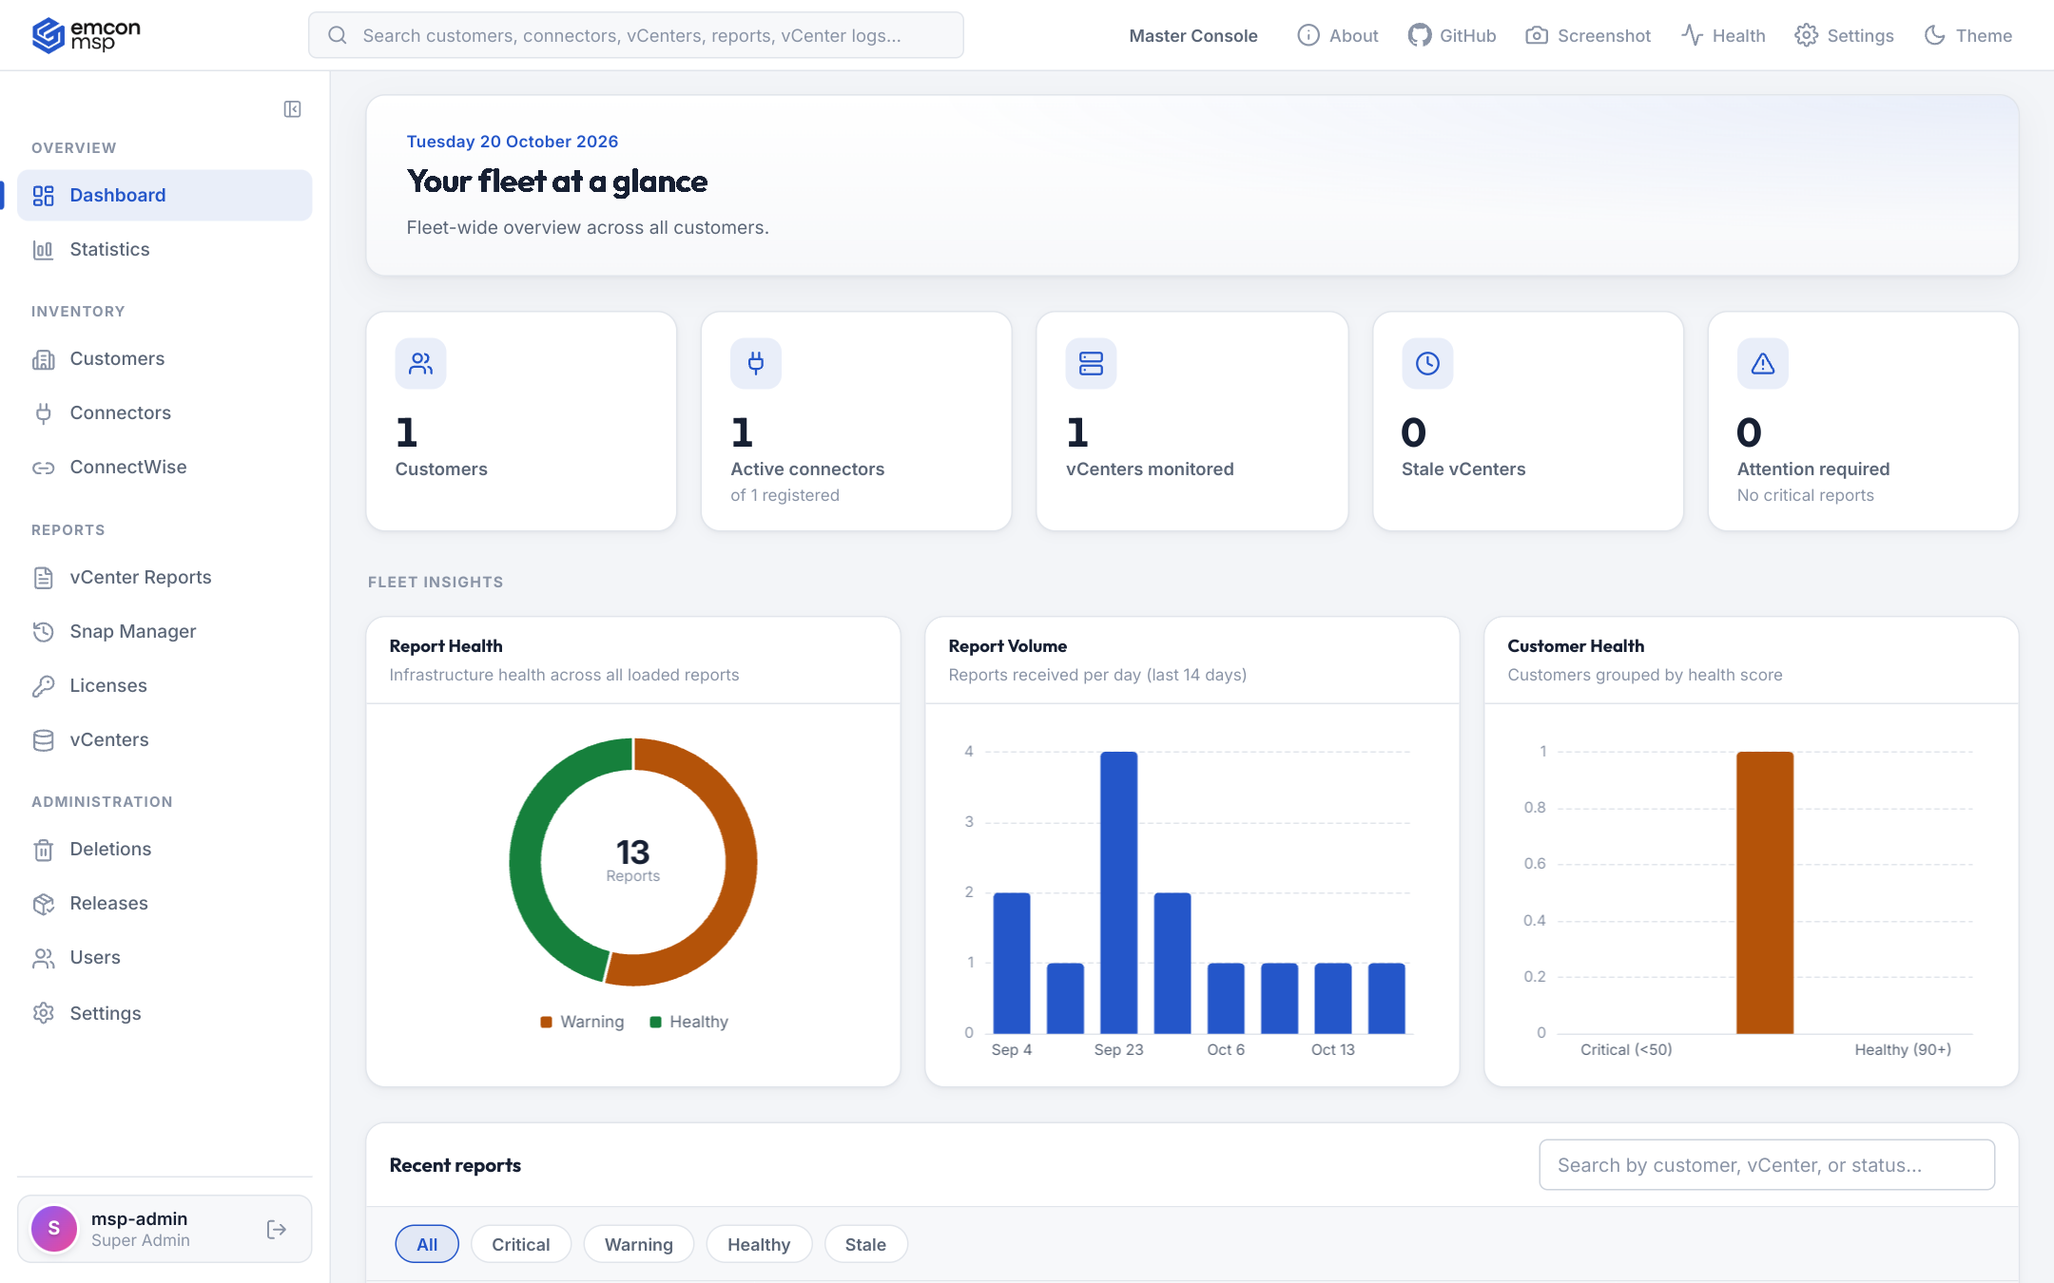
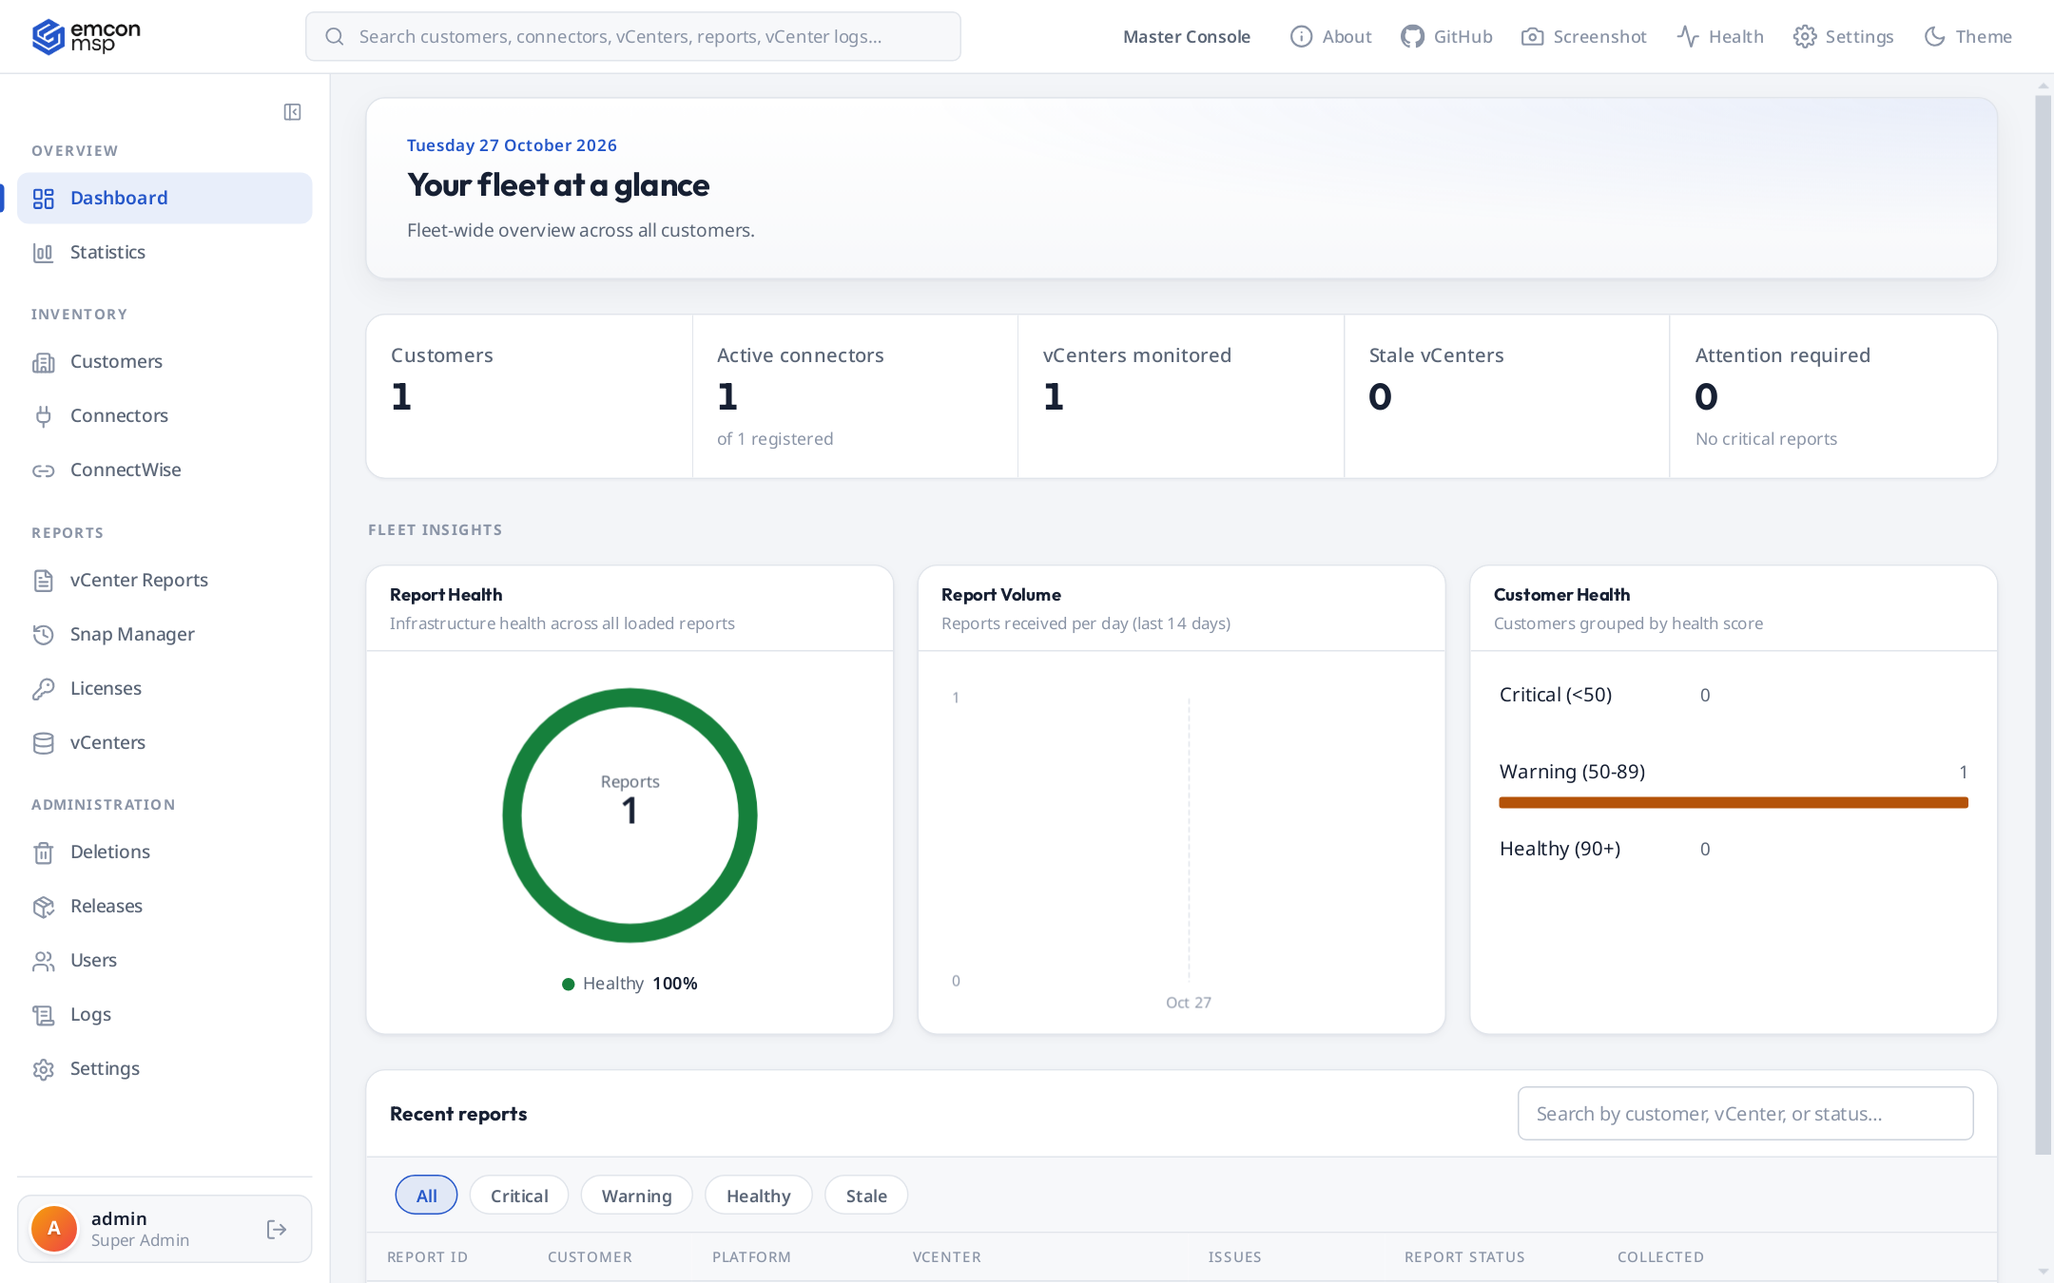
Refresh README for Master 1.0.12 with new screenshots

diff --git a/README.md b/README.md
@@ -1,265 +1,119 @@
+<div align="center">
+
 # EMCONMSP
 
-**VMware infrastructure monitoring and reporting for managed service providers.**
+**VMware infrastructure monitoring and reporting platform for managed service providers**
 
-EMCONMSP lets an MSP watch the health of every customer's VMware environment from one console. A small appliance (the **Connector**) runs next to each customer's vCenter and sends read-only inventory, health, log and snapshot data to your central **Master**. The Master turns it into dashboards, findings, PDF reports and email digests.
+[![Master](https://img.shields.io/badge/Master-1.0.12-1f3a5f?style=flat-square)](#release-notes)
+[![Connector](https://img.shields.io/badge/Connector-1.0.5-1f3a5f?style=flat-square)](#release-notes)
+[![vSphere](https://img.shields.io/badge/VMware%20vSphere-7.x%20%7C%208.x-607078?style=flat-square)](#requirements)
+[![Delivery](https://img.shields.io/badge/delivery-OVA%20appliance-2b6cb0?style=flat-square)](#deployment)
+[![Network](https://img.shields.io/badge/closed%20network-ready-2f855a?style=flat-square)](#security)
+[![License](https://img.shields.io/badge/license-proprietary-4a5568?style=flat-square)](#license)
 
-- Read-only toward vCenter. Nothing is ever changed in the customer's environment.
-- Outbound only. Connectors call the Master over HTTPS; no inbound firewall rules are needed at the customer.
-- vCenter credentials stay on the Connector, encrypted. They are never sent to the Master.
-- Both products ship as ready-to-deploy virtual appliances (OVA) and work in closed networks.
+[Overview](#overview) · [Capabilities](#capabilities) · [Architecture](#architecture) · [Deployment](#deployment) · [Security](#security) · [Release notes](#release-notes)
 
-> This repository only holds documentation. The product is delivered as OVA appliances.
+<img src="docs/images/master-dashboard.png" alt="EMCONMSP Master dashboard" width="900">
 
-![EMCONMSP Master dashboard](docs/images/master-dashboard.png)
-
----
-
-## Contents
-
-- [How it fits together](#how-it-fits-together)
-- [Getting started](#getting-started)
-- [Using the Master](#using-the-master)
-- [Using the Connector](#using-the-connector)
-- [Security at a glance](#security-at-a-glance)
+</div>
 
 ---
 
-## How it fits together
+## Overview
+
+EMCONMSP gives MSPs a single console for the health of every customer's VMware estate. A lightweight **Connector** appliance runs at each customer site and sends read-only inventory, health, log and snapshot data to the central **Master**, which turns it into findings, dashboards, branded PDF reports and email digests.
+
+> This repository contains product documentation. EMCONMSP is delivered as virtual appliances (OVA).
+
+## Capabilities
+
+| Area | What you get |
+| --- | --- |
+| **Assessment reports** | Scheduled vCenter reports with severity-ranked recommendations (C1, W1...), inventory, VM health and trends across reports. |
+| **Branded PDF** | Cover page, clickable table of contents and your own MSP logo and name, in the browser and in customer emails. |
+| **Fleet insight** | Dashboard and Statistics with report volume, freshness, version spread and hardware vendors across all customers. |
+| **Snap Manager** | Daily snapshot scan with creator tracking, exclusion rules by name, age and VM state, and team and customer digests. |
+| **Log Viewer** | vCenter tasks and events every 15 minutes, with quick filters for common events such as HA restarts. |
+| **Notifications** | SMTP relay with automatic retries, Microsoft Teams alerts, and a Zabbix-ready mail health endpoint. |
+| **Integrations** | Read-only Integration API, ConnectWise Manage agreement checks and Active Directory sign-in. |
+| **Administration** | Role-based access, enforced or optional MFA, user management, retention policies and appliance health. |
+
+<table>
+  <tr>
+    <td width="50%"><img src="docs/images/master-report-summary.png" alt="Report summary"></td>
+    <td width="50%"><img src="docs/images/master-statistics.png" alt="Fleet statistics"></td>
+  </tr>
+  <tr>
+    <td align="center"><sub>Report summary with component health</sub></td>
+    <td align="center"><sub>Fleet statistics</sub></td>
+  </tr>
+  <tr>
+    <td><img src="docs/images/report-pdf-cover.png" alt="PDF report cover"></td>
+    <td><img src="docs/images/report-pdf-contents.png" alt="PDF report contents"></td>
+  </tr>
+  <tr>
+    <td align="center"><sub>Branded PDF report</sub></td>
+    <td align="center"><sub>Clickable table of contents</sub></td>
+  </tr>
+</table>
+
+## Architecture
 
 ```
- Customer site A                    Customer site B
- +-----------------+                +-----------------+
- | vCenter(s)      |                | vCenter(s)      |
- |      ^          |                |      ^          |
- |  read-only API  |                |  read-only API  |
- |      |          |                |      |          |
- |  Connector      |                |  Connector      |
- +------+----------+                +------+----------+
-        |  HTTPS (outbound only)           |
-        +---------------+------------------+
-                        v
-                +---------------+        +-----------------+
-                |    Master     | -----> | Email / Teams   |
-                |  (your MSP)   |        | Integration API |
-                +---------------+        +-----------------+
+ Customer site                         MSP
+ +---------------------+              +------------------+      +--------------------+
+ | vCenter             |  HTTPS out   |                  | ---> | Email / Teams      |
+ |   ^ read-only API   | -----------> |      Master      | ---> | Integration API    |
+ | Connector appliance |              |                  | ---> | Zabbix, ConnectWise|
+ +---------------------+              +------------------+      +--------------------+
 ```
 
-Each Connector sends three independent streams, each on its own schedule:
-
-| Stream | How often | Used for |
+| Data stream | Frequency | Feeds |
 | --- | --- | --- |
-| vCenter report | Per customer schedule (daily, weekly or monthly) | Inventory, health findings, PDF reports |
+| vCenter report | Daily, weekly or monthly per customer | Reports, recommendations, PDF |
 | Tasks and events | Every 15 minutes | Log Viewer |
-| Snapshot scan | Once a day | Snap Manager |
+| Snapshot scan | Daily | Snap Manager |
 
-The Master processes uploads a few at a time and asks a Connector to retry later when it is busy, so a large fleet never overloads it.
+<p align="center"><img src="docs/images/connector-overview.png" alt="Connector overview" width="760"><br><sub>Connector appliance with live data flow status</sub></p>
 
----
+## Deployment
 
-## Getting started
+1. **Master** - deploy the OVA, set IP, gateway, DNS and FQDN in *Customize template*, then sign in at `https://<master>` and change the initial password.
+2. **Customer** - on the Master, create the customer with the Appliance ID of its Connector to receive a one-time activation code.
+3. **Connector** - deploy the OVA at the customer site, enter the Master URL and activation code, and add the vCenter.
 
-### 1. Deploy the Master
+The Master is updated with release packages; Connectors receive their updates from the Master through **Releases**.
 
-1. Deploy the **EMCONMSP Master** OVA in vSphere.
-2. In *Customize template*, fill in the **Network Configuration** section. Leave **IP Address** empty to use DHCP.
+## Requirements
 
-   | Field | Meaning |
-   | --- | --- |
-   | IP Address | Static IP for the appliance. Blank means DHCP. |
-   | Network Prefix Length | Subnet prefix, for example `24`. |
-   | Gateway | Default gateway. |
-   | DNS Server | DNS server address. |
-   | Hostname | FQDN of the Master. Also used for its TLS certificate and for links in emails. |
-
-3. Power on the VM, open `https://<master-address>` and sign in. You must change the initial password first.
-
-<p align="center"><img src="docs/images/master-login.jpg" alt="Master sign-in" width="640"></p>
-
-### 2. Deploy a Connector for each customer
-
-1. Deploy the **EMCONMSP Connector** OVA next to the customer's vCenter, with the same network fields.
-2. On the Master, create the customer (**Customers > New customer**) with the Appliance ID shown on the Connector. You get a one-time **activation code** and the **Master Server URL**.
-3. Open `https://<connector-address>`, sign in, change the initial password and enter the Master Server URL and the activation code.
-4. Add the customer's vCenter.
-
-<p align="center"><img src="docs/images/connector-login.jpg" alt="Connector sign-in" width="640"></p>
-
----
-
-## Using the Master
-
-### Customers and reports
-
-Open a customer to see its connectors, vCenters, health score, latest reports, topology and report history. From here you can request a fresh report, re-issue the activation code and set the customer's email preferences.
-
-![Customer detail](docs/images/master-customer-detail.png)
-
-Each report is a snapshot of one vCenter:
-
-- **Report Summary** with overall health and **Recommendations** grouped by area. Findings are marked critical or warning.
-- **Inventory Report** with hosts, clusters, networks, datastores, storage adapters, redundancy checks, licenses and certificates.
-- **VM Health** with snapshots, VMware Tools, hot-add settings, outdated virtual hardware, unreferenced VMDKs and more.
-- **Trends** to compare the latest reports of a vCenter.
-
-A report can be downloaded as **PDF** (the same file customers receive by email), raw **JSON** or an **Excel** inventory export.
-
-![Report overview](docs/images/master-report-overview.png)
-
-![Recommendations](docs/images/master-recommendations.png)
-
-<details>
-<summary>More report screenshots</summary>
-
-![Inventory report](docs/images/master-inventory.png)
-
-![VM health](docs/images/master-vm-health.png)
-
-</details>
-
-### Snap Manager
-
-Snap Manager watches for forgotten VM snapshots. Every Connector scans its vCenters once a day, separately from the reports, and also records **who created each snapshot** from the vCenter task history.
-
-- **Snapshots**: every snapshot older than the threshold (72 hours by default), with summary cards, search, customer and vCenter filters, a powered-off view, and PDF and CSV export.
-- **Customers**: one row per customer, most old snapshots first. Open a customer to see its snapshots and download a PDF or CSV for that customer only.
-- **Notifications**: a daily digest for your team, sent through the SMTP relay to its own recipient list. The digest body holds the summary and a link per customer; the full list is attached as PDF and CSV. Scan and digest times and the threshold are set here.
-
-Each customer can also receive its own daily Snap Manager email with only its vCenters, turned on per customer under **Edit customer**.
-
-![Snap Manager](docs/images/master-snap-manager.png)
-
-<details>
-<summary>Customers and Notifications tabs</summary>
-
-![Snap Manager customers](docs/images/master-snap-customers.png)
-
-![Snap Manager notifications](docs/images/master-snap-notifications.png)
-
-</details>
-
-### Log Viewer
-
-**Customer > Log Viewer** shows vCenter tasks and events collected every 15 minutes, with search, time ranges, state filters and expandable rows. Errors are highlighted.
-
-![Log viewer](docs/images/master-log-viewer.png)
-
-### Fleet pages
-
-| Page | Purpose |
+| Item | Requirement |
 | --- | --- |
-| **Dashboard** | Customers that need attention, report health and recent activity. |
-| **Statistics** | Fleet-wide numbers and trends. |
-| **Customers** | All customers, with search. |
-| **Connectors** | Every appliance with its online status and version. |
-| **vCenter Reports** | Every report, filterable by customer, status and date. |
-| **Snap Manager** | Old VM snapshots across all customers. |
-| **Licenses** | Licenses per vCenter, most urgent first. |
-| **vCenters** | Every monitored vCenter and whether it is in sync. |
+| vCenter | vSphere 7.x or 8.x |
+| Service account | Read-only role plus *Global > Licenses*, *Datastore > Browse datastore* and *Host > Configuration > Change settings*, assigned on the vCenter root |
+| Network | Outbound HTTPS from Connector to Master; no inbound rules at the customer |
 
-Lists can be filtered by customer and vCenter with dropdowns you can type into, and exported to CSV.
+## Security
 
-![vCenters](docs/images/master-vcenters.png)
+- Read-only, least-privilege access to vCenter. Nothing is changed in the customer environment.
+- vCenter credentials are encrypted on the Connector and never leave the site.
+- Outbound-only communication over TLS.
+- Role-based access with MFA, AD integration and session timeouts.
+- Secrets at rest are encrypted. Designed for closed networks without internet access.
 
-### Email and notifications
+## Release notes
 
-**Settings > Email** configures the SMTP relay.
-
-- Customers who opted in receive each new report as a PDF.
-- **Alert recipients** (your own team) receive a copy of every report and report deletion requests.
-- Failed emails are retried automatically, and the last result is shown in the settings.
-
-**Settings > Teams** posts critical reports to a Microsoft Teams channel.
-
-### Settings
-
-Open **Settings** in the header or the sidebar.
-
-![Master settings](docs/images/master-settings.png)
-
-| Section | Purpose |
+| Version | Highlights |
 | --- | --- |
-| Change password / MFA | Your own password and authenticator app sign-in with recovery codes. |
-| Network | The appliance IP, DNS and hostname. |
-| Teams / Email | Notification channels. |
-| Integration API | A read-only API key for ticketing tools. |
-| Report retention / Log Viewer retention | How long reports and logs are kept. |
-
-### System Health
-
-**Health** in the header shows CPU, memory, uptime, disks and the **Connector uploads** queues: how many uploads of each kind are in progress, waiting or were turned away because the Master was busy.
-
-![Master system health](docs/images/master-system-health.png)
-
-### Users, roles and two-factor authentication
-
-| Role | Access |
-| --- | --- |
-| Super Admin | Everything, including users, releases, email settings and report deletion approvals. |
-| Admin | Customers, connectors, reports and settings. |
-| Read Only | Customers, reports, vCenters, licenses and Snap Manager, without settings. |
-
-- Anyone can turn on two-factor authentication. A user can also be required to set it up at first sign-in.
-- A super admin can reset another user's two-factor authentication.
-
-The header also has a search box with quick actions, a screenshot tool and a light/dark theme switch.
-
----
-
-## Using the Connector
-
-The Connector has a small local web interface at its own address. The header gives quick access to **Home**, **About**, **Health**, **Logs**, **Settings** and **Log out**.
-
-### Overview
-
-The overview shows the Connector state, the last and next synchronization, a live **data flow** diagram (vCenters, this Connector and the Master, with the state of each connection) and the list of vCenters.
-
-![Connector overview](docs/images/connector-overview.png)
-
-### Add a vCenter
-
-Use **Add vCenter** and enter the vCenter address and a service account. **Test connection** and **Save** check that the account really holds the privileges the Connector needs on the vCenter root, whatever its role is called. **What role is needed?** on the form lists the exact steps.
-
-![Add vCenter](docs/images/connector-add-vcenter.png)
-
-| Privilege | Used for |
-| --- | --- |
-| Read-only role (System > View, System > Read) | Browsing the inventory and reading configuration. |
-| Global > Licenses | License editions, usage and expiry. |
-| Datastore > Browse datastore | Finding unreferenced VMDK files. |
-| Host > Configuration > Change settings | Reading host settings such as NTP, syslog and shell timeouts. |
-
-Clone the Read-only role, add the three extra privileges and assign it to the account on the vCenter root with **Propagate to children**. A suggested role name is `EMCONMSP-Connector`.
-
-### Logs
-
-**Logs** shows the status of each Connector job, the last upload to the Master, a 24-hour summary of uploads (sent, failed, Master busy) and a terminal view of the job and system logs. Passwords, keys and internal service names are masked before they are shown.
-
-![Connector logs](docs/images/connector-logs.png)
-
-### System Health
-
-**Health** shows CPU, memory, uptime, load and disk usage of the appliance.
-
-![Connector system health](docs/images/connector-system-health.png)
-
-### Settings
-
-**Settings** offers **Change password**, **Network settings** (IP, DNS, NTP) and **Delete all reports**, which sends a deletion request that a super admin on the Master must approve. Sessions end after 15 minutes without activity.
-
----
-
-## Security at a glance
-
-- Read-only access to vCenter with a dedicated least-privilege service account.
-- vCenter credentials are encrypted on the Connector and never leave it.
-- Connectors only make outbound HTTPS calls to the Master.
-- Role-based access on the Master, with optional or enforced two-factor authentication.
-- SMTP passwords are stored encrypted on the Master.
-- Designed to work in closed networks without internet access.
+| **Master 1.0.12** | Report Volume chart fix when no failed reports exist. |
+| **Master 1.0.11** | Modern charts across Dashboard, Statistics and Report Summary, unified stat cards, collapsible VMs in Snap Manager, PDF layout fix for large environments. |
+| **Master 1.0.10** | Redesigned PDF with cover page and clickable contents, MSP logo and email name under Settings > Reports, VMware version and HBA redundancy sections. |
+| **Master 1.0.9** | Snap Manager rules by snapshot age and VM state, Log Viewer quick filters, Zabbix mail monitoring, user edit and password reset. |
+| **Connector 1.0.5** | Real event types for EventEx events, web server reliability fixes. |
 
 ## License
 
-EMCONMSP is proprietary software. The license agreement is shown during OVA deployment and must be accepted before the appliance can be deployed.
+EMCONMSP is proprietary software. The license agreement is presented during OVA deployment and must be accepted before use.
 
-&copy; PilotHosts Software and Technology Limited Company. A [Pilothosts Tech](https://www.pilothosts.com/) product.
+<div align="center">
+<sub>&copy; PilotHosts Software and Technology Limited Company · A <a href="https://www.pilothosts.com/">Pilothosts Tech</a> product</sub>
+</div>
